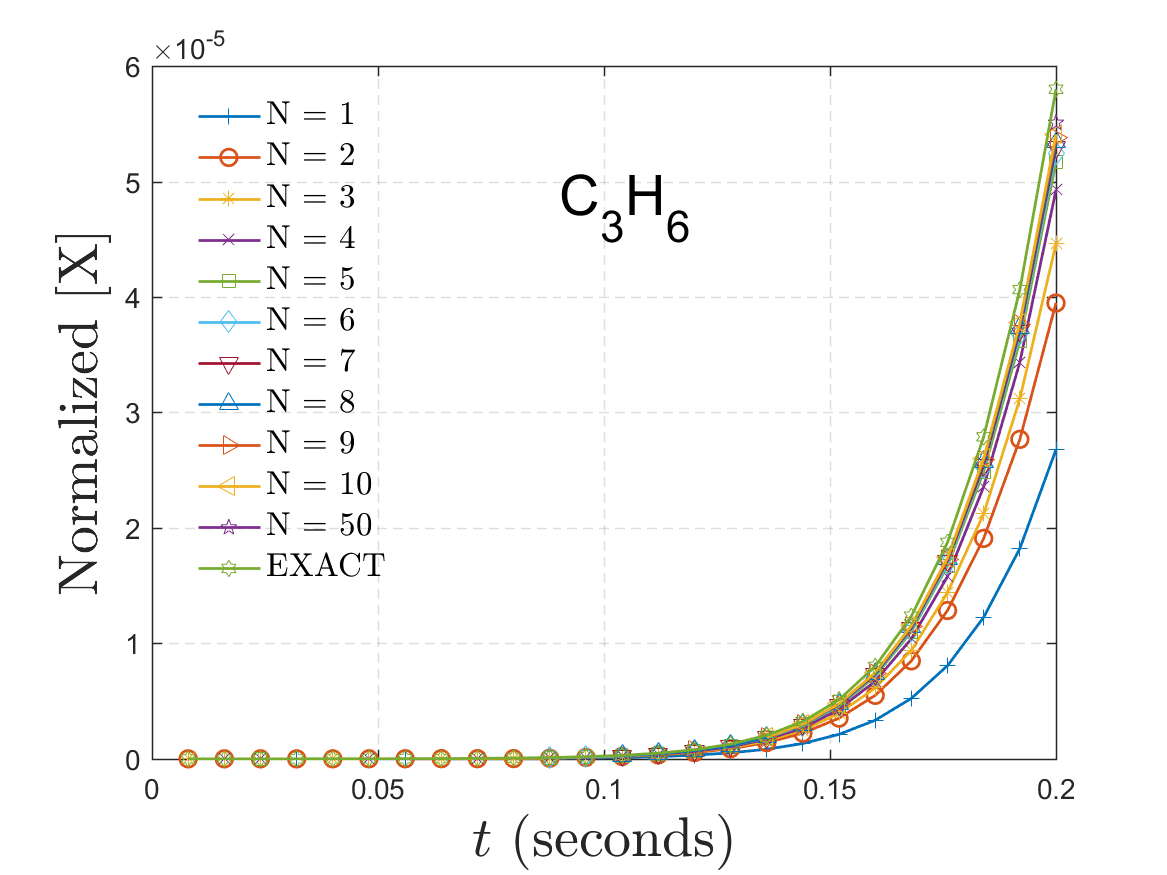
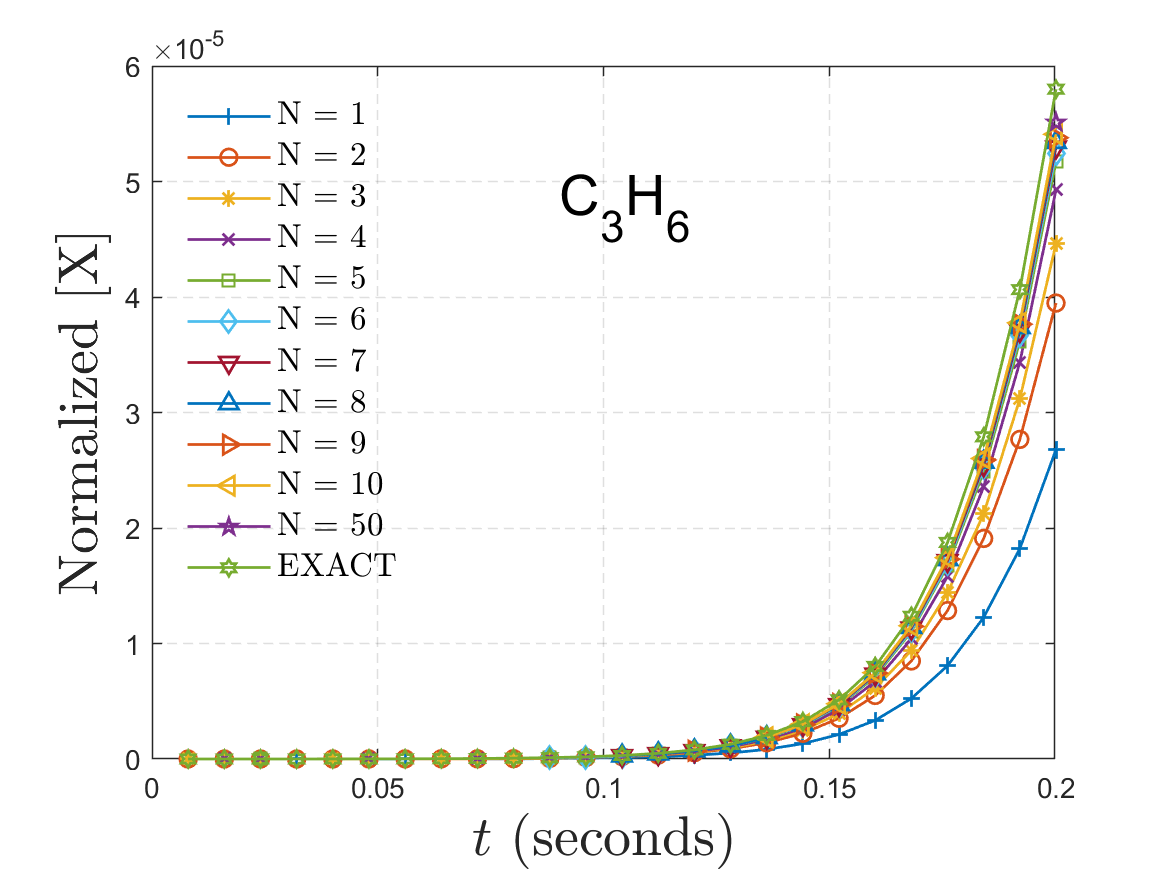
update time points

diff --git a/main_driver.py b/main_driver.py
@@ -77,8 +77,8 @@ if __name__ == '__main__':
         no_path_reg=G_S['no_path_reg'],
         species_path=G_S['species_path'],
         begin_t=0.0,
-        mc_end_t_threshlod=0.1,
-        end_t_vec=[0.010287325580439221, 0.020574651160878442, 0.030861976741317663, 0.041149302321756884, 0.05143662790219611, 0.061723953482635326, 0.07201127906307454, 0.08229860464351377, 0.09258593022395299, 0.10287325580439222, 0.11316058138483143, 0.12344790696527065, 0.13373523254570988, 0.1440225581261491, 0.15430988370658832, 0.16459720928702753, 0.17488453486746675, 0.18517186044790598, 0.1954591860283452, 0.20574651160878443, 0.21603383718922364, 0.22632116276966285, 0.2366084883501021, 0.2468958139305413, 0.25718313951098054])
+        mc_end_t_threshlod=0.15,
+        end_t_vec=[0.0482215780729, 0.0964431561458, 0.144664734219, 0.192886312292, 0.196270282683, 0.199654253074, 0.203038223465, 0.206422193856, 0.209806164247, 0.213190134638, 0.216574105029, 0.21995807542, 0.223342045811, 0.226726016202, 0.230109986594, 0.233493956985, 0.236877927376, 0.240261897767, 0.243645868158, 0.247029838549, 0.25041380894, 0.253797779331, 0.257181749722])
 
     # j_b.evaluate_pathway_AT(
     #     SRC_DIR, DATA_DIR, top_n=G_S['top_n_p'], flag="",
